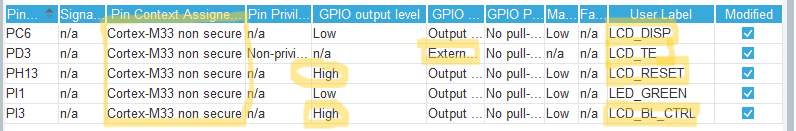
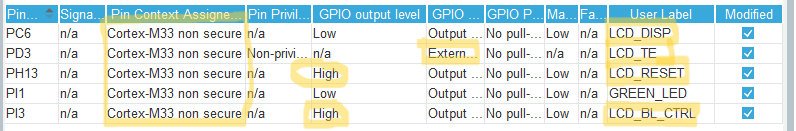
- adjustments on readme

Changed region(s): [[0.7538, 0.6718, 0.8744, 0.7939]]

diff --git a/README.md b/README.md
@@ -11,7 +11,7 @@ This tutorial guides you through a process of creation a **TouchGFX** applicatio
 
 In this repository you will find a complete working project tested on the **STM32H573I-DK** board. If you don't want to follow the tutorial, just download the repository, open and build the project.
 
-The **secure** application is located in **Flash Bank 1** (1MB) and basically do only an initialization of GTZC or other initialization and then **jumps** to **non secure** application. Non secure application do all the rest of functionality and is located in the **Flash Bank 2** (1MB).
+The **secure** application is located in **Flash Bank 1** (1MB) and basically does only an initialization of GTZC or other initialization and then **jumps** to **non secure** application. **Non secure** application does all the rest of functionality and is located in the **Flash Bank 2** (1MB).
 ```
      Flash Bank 1               Flash Bank 2
    +---------------+          +---------------+
@@ -25,13 +25,15 @@ The **secure** application is located in **Flash Bank 1** (1MB) and basically do
 ```
 
 ***Note:***
->The Touch screen handling or external flash memory storage is not implemented in this tutorial to keep the tutorial simpler.
+>The touch screen handling or external flash memory storage is not implemented in this tutorial to keep the tutorial simpler.
+
+>The tutorial is not aiming on application memory layout optimization.
 
 ## Configure the Option Bytes
 
 At first, it is needed to prepare STM32H5 device and configure its ***Option Bytes*** to be able to run secure and non-secure application.
 
-1) Connect the board to the PC using USB-C cable.
+1) Connect the board **to the PC** using **USB-C** cable.
 2) Open **STM32CubeProgrammer** GUI.
 3) Connect to the STM32H573 by clicking green **Connect** button.
 4) Go to **OB** icon (left vertical bar) and activate TZ: ***TZEN*** == B4 and ***Flash Water Mark*** for Flash ***Bank 1*** (Secure) and ***Bank2*** (Non-Secure)*
@@ -94,7 +96,7 @@ int main(void)
 
 ### Setup Debug
 
-1) Click with **right mouse button** on _Secure project and select **Debug As** > **STM32 C/C++ Application**
+1) In the **Project Explorer**, click with **right mouse button** on **Secure** project and select **Debug As** > **STM32 C/C++ Application**
 
 2) In the **debug Configuration** click on **Startup** tab and add a **NonSecure image** in **Load Image and Symbols** list. Change **Build Configuration** to **Debug** for NonSecure project. Keep the rest untouched.
 ![](imgs/DebugSetup.png)
@@ -112,25 +114,27 @@ When you run debug next time, be sure to select Secure project when launching de
 
 ## Add TouchGFX SW packgage X-CUBE-TouchGFX
 
-1) Go to **Software Packs** drop down menu and click **Select Components** option.
+1) Open again **STM32CubeMX**.
+
+2) Go to **Software Packs** drop down menu and click **Select Components** option.
 ![](imgs/OpenSWPacks.png)
 
-2) In the **Software Packs Component Selector** be sure to select **Cortex-M33 non secure** context because the **TouchGFX** can run only in **non secure** context.
+3) In the **Software Packs Component Selector** be sure to select **Cortex-M33 non secure** context because the **TouchGFX** can run only in **non secure** context.
 ![](imgs/SWPacksTGFX.png)
 
-3) Then we need to activate **TouchGFX** middleware.
+4) Then we need to activate **TouchGFX** middleware.
 ![](imgs/EnableTGFX.png)
 
-4) Solve the **Dependencies error**. The **TouchGFX** needs to have available **CRC** peripheral to proper function. You don't need to configure the **CRC** peripheral, just activate it using check box. **CRC** belongs to **non secure** context.
+5) Solve the **Dependencies error**. The **TouchGFX** needs to have available **CRC** peripheral to proper function. You don't need to configure the **CRC** peripheral, just activate it using check box. **CRC** belongs to **non secure** context.
 ![](imgs/ActivateCRC.png)
 
-5) Activate the **FMC** for **non secure** context. The display on **STM32H573I-DK** board is connected with 16-bit data bus. To interface this display (Sitronix ST7789H2 controller) we can use **FMC** peripheral with **LCD mode**. Disable the **Write FIFO**. Configure the **FMC** according to the picture bellow. 
+6) Activate the **FMC** for **non secure** context. The display on **STM32H573I-DK** board is connected with 16-bit data bus. To interface this display (Sitronix ST7789H2 controller) we can use **FMC** peripheral with **LCD mode**. Disable the **Write FIFO**. Configure the **FMC** according to the picture bellow. 
 ![](imgs/MX_FMC_1.png)
 
-6) Check the **FMC** pin assignment sorted by **Signal name** (move pins to alternate position if needed to be inline with the picture bellow). All the pins, as **FMC** peripheral itself, belongs to the **non secure** context.
+7) Check the **FMC** pin assignment sorted by **Signal name** (move pins to alternate position if needed to be inline with the picture bellow). All the pins, as **FMC** peripheral itself, belongs to the **non secure** context.
 ![](imgs/MX_FMC_pins.png)
 
-7) Adjust **TouchGFX** configuration in **STM32CubeMX**. Once we have activated the **FMC** controller, we can adjust configuration in the **STM32CubeMX** for **TouchGFX** middleware to use **FMC**. Set proper display size (**240 x 240 px**) and select **double frame buffer** - don't worry, it will fit inside the internal SRAM (double FB size = 240 x 240 x 2 x 2 = 225 KB)
+8) Adjust **TouchGFX** configuration in **STM32CubeMX**. Once we have activated the **FMC** controller, we can adjust configuration in the **STM32CubeMX** for **TouchGFX** middleware to use **FMC**. Set proper display size (**240 x 240 px**) and select **double frame buffer** - don't worry, it will fit inside the internal SRAM (double FB size = 240 x 240 x 2 x 2 = 225 KB)
 ![](imgs/CubeMX_TGFX_FMC.png)
 
 If you generate the project by **STM32CubeMX** now and then try to build the project, you will receive **expected errors**, because the project is **not complete**.
@@ -141,14 +145,16 @@ We must generate project in the **TouchGFX Designer** to have complete project.
 
 ## Generate TouchGFX project in the TouchGFX Designer
 
-1) Open the **ApplicationTemplate.touchgfx.part** partial project file located in /NonSecure/TouchGFX/:
-![](imgs/part.png)
+1) Open (double click) the **ApplicationTemplate.touchgfx.part** partial project file located in /NonSecure/TouchGFX/:
+![](imgs/part.png)  
 
+***Note:***
+> If you open the partial project file using Open project dialog in TouchGFX Designer, the next step (Import GUI) is skipped by TouchGFX Designer and Blank UI is automatically used.
 
-2) This will open the project in the ***TouchGFX Designer***. There you can select ***Blank UI*** for initial project and click on ***Import*** button.
+2) This will open the project in the ***TouchGFX Designer***. There you can select ***Blank UI*** for initial project and click on ***Import*** button.    
 ![](imgs/TouchGFXDesigner-BlankUI.png)
 
-3) Add some basic shapes on the screen (canvas) to see at least something on the display later. You can put a white rectangle and spread it across all the screen to create a white background and then place somewhere a circle of any color.  
+3) Add some basic shapes on the screen (canvas) to see at least something on the display later. You can put a white rectangle (a ***Box*** widget) and spread it across all the screen to create a white background and then place somewhere a **Circle** widget of any color.  
 ![](imgs/TouchGFXDesigner_canvas.png)
 
 4) Now just click **Generate button** (or press F4) to generate **TouchGFX** project.
@@ -159,7 +165,7 @@ We must generate project in the **TouchGFX Designer** to have complete project.
 
 
 ***Note:***
-> The **TouchGFX Designer** has also generated final **.touchgfx** project file in the same folder next to the partial **ApplicationTemplate.touchgfx.part** file. Use **.touchgfx** final project file for opening your TouchGFX project next time.    
+> The **TouchGFX Designer** has also generated final **.touchgfx** project file in the same folder next to the partial **ApplicationTemplate.touchgfx.part** file. Use the **.touchgfx** final project file for opening your TouchGFX project next time.    
 ![](imgs/TGFXprjfile.png)
 
 At this point we are **able to build** the application **without any error**. If you start debugging, you will see running **TouchGFX** application. But the **TouchGFX** application will not be showing anything on the display and requires some more adjustments. 
@@ -175,18 +181,24 @@ Before we proceed further, **remove** or comment out **testing code** in the mai
 
 ## GPIOs
 
-We need to add some more **GPIOs** to handle display correctly. Configure the GPIO pins with the given **User Labels**.
+We need to add some more **GPIOs** to handle display correctly. 
 
-1) The pin enabling power to display **PC6** (with label "**LCD_DISP**") - GPIO **output** push/pull. Default **GPIO output level** **Low** means the display will have a power just after initialization of this pin.
+Configure the GPIO pins with the given **User Labels**.
 
-2) **Input** pin catching tearing effect (TE) signal from the display **PD3** (put there label "**LCD_TE**"). We need to enable **GPIO_EXTI3** on this pin to catch interrupts from the display TE pin. (**TouchGFX** rendering is triggered by this signal)  
+All the GPIO pins belong to **non secure** context. Don't leave these GPIO pins context **Free**.
+
+1) Open again **STM32CubeMX**
+
+2) The pin enabling power to display **PC6** (with label "**LCD_DISP**") - GPIO **output** push/pull. Default **GPIO output level** **Low** means the display will have a power just after initialization of this pin.
+
+3) **Input** pin catching tearing effect (TE) signal from the display **PD3** (put there label "**LCD_TE**"). We need to enable **GPIO_EXTI3** on this pin to catch interrupts from the display TE pin. (**TouchGFX** rendering is triggered by this signal)  
 ![](imgs/EXTI3.png)   
 Then go to **NVIC_NS** settings and enable interrupts on **EXTI line 3** by clicking on the checkbox.
 ![](imgs/NVIC_EXTI3.png)
 
-3) The pin controlling the display reset line **PH13** (with label "**LCD_RESET**"). GPIO **output** push/pull with **GPIO output level** **High**.
+4) The pin controlling the display reset line **PH13** (with label "**LCD_RESET**"). GPIO **output** push/pull with **GPIO output level** **High**.
 
-4) The pin controlling the backlight **PI3** (with label "**LCD_BL_CTRL**"). GPIO **output** push/pull with **GPIO output level** - **High** which means that after the pin initialization the display backlight will be on.
+5) The pin controlling the backlight **PI3** (with label "**LCD_BL_CTRL**"). GPIO **output** push/pull with **GPIO output level** - **High** which means that after the pin initialization the display backlight will be on.
 
 See the summary bellow:
 ![](imgs/GPIOs.png)